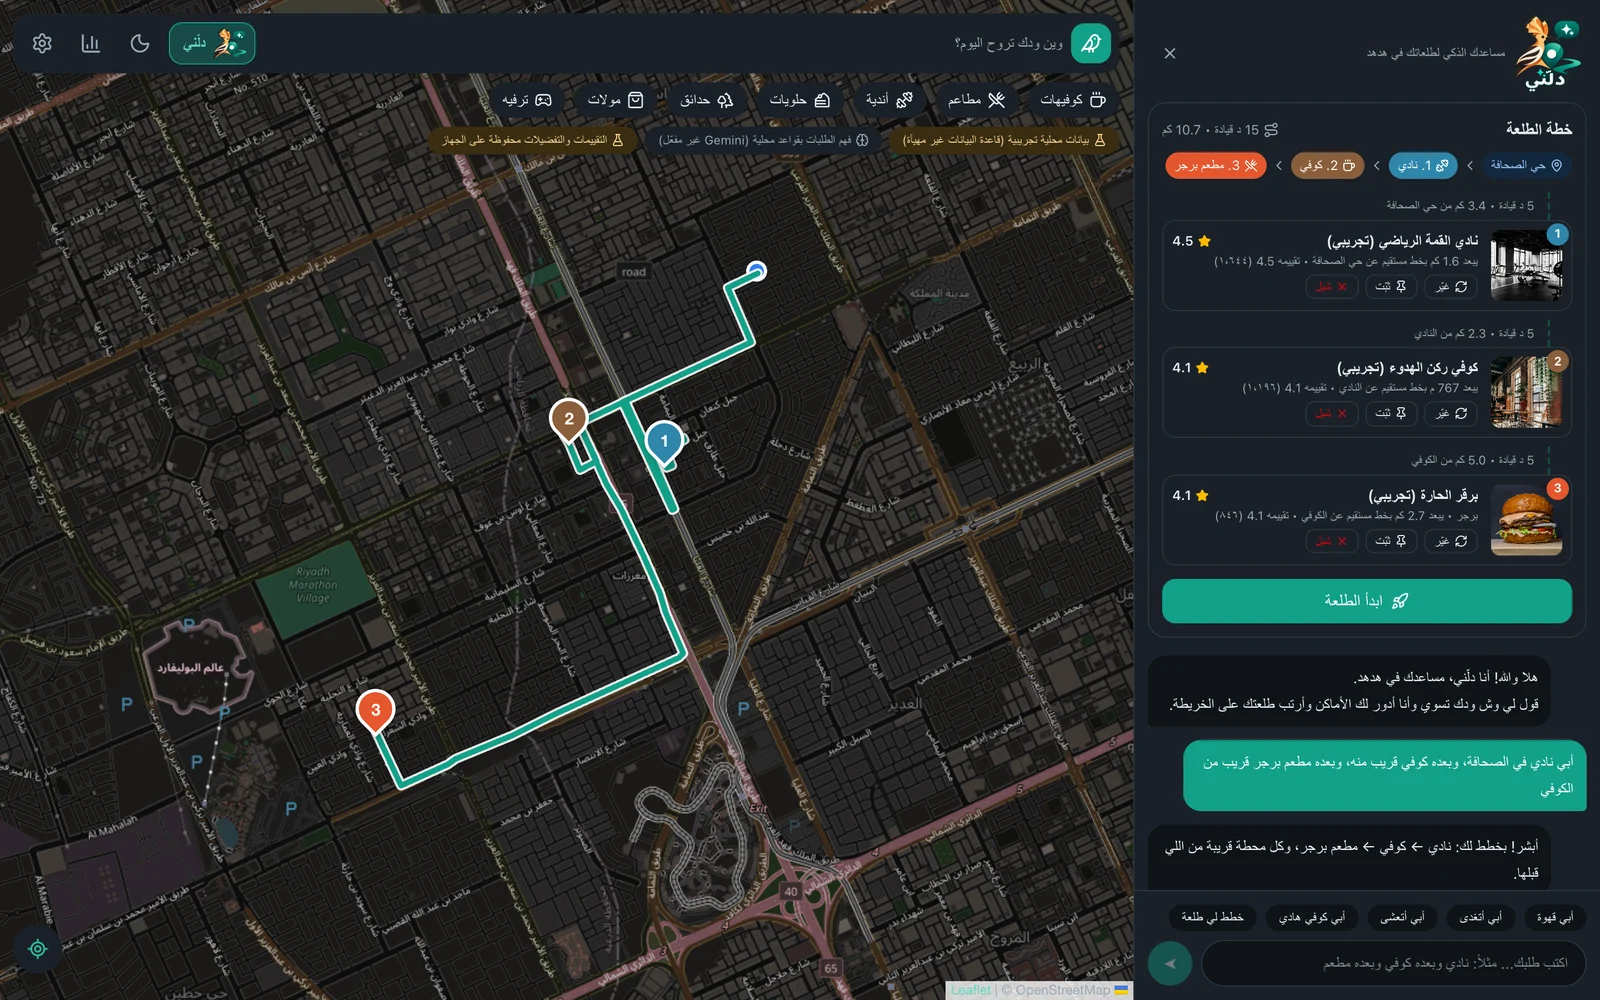
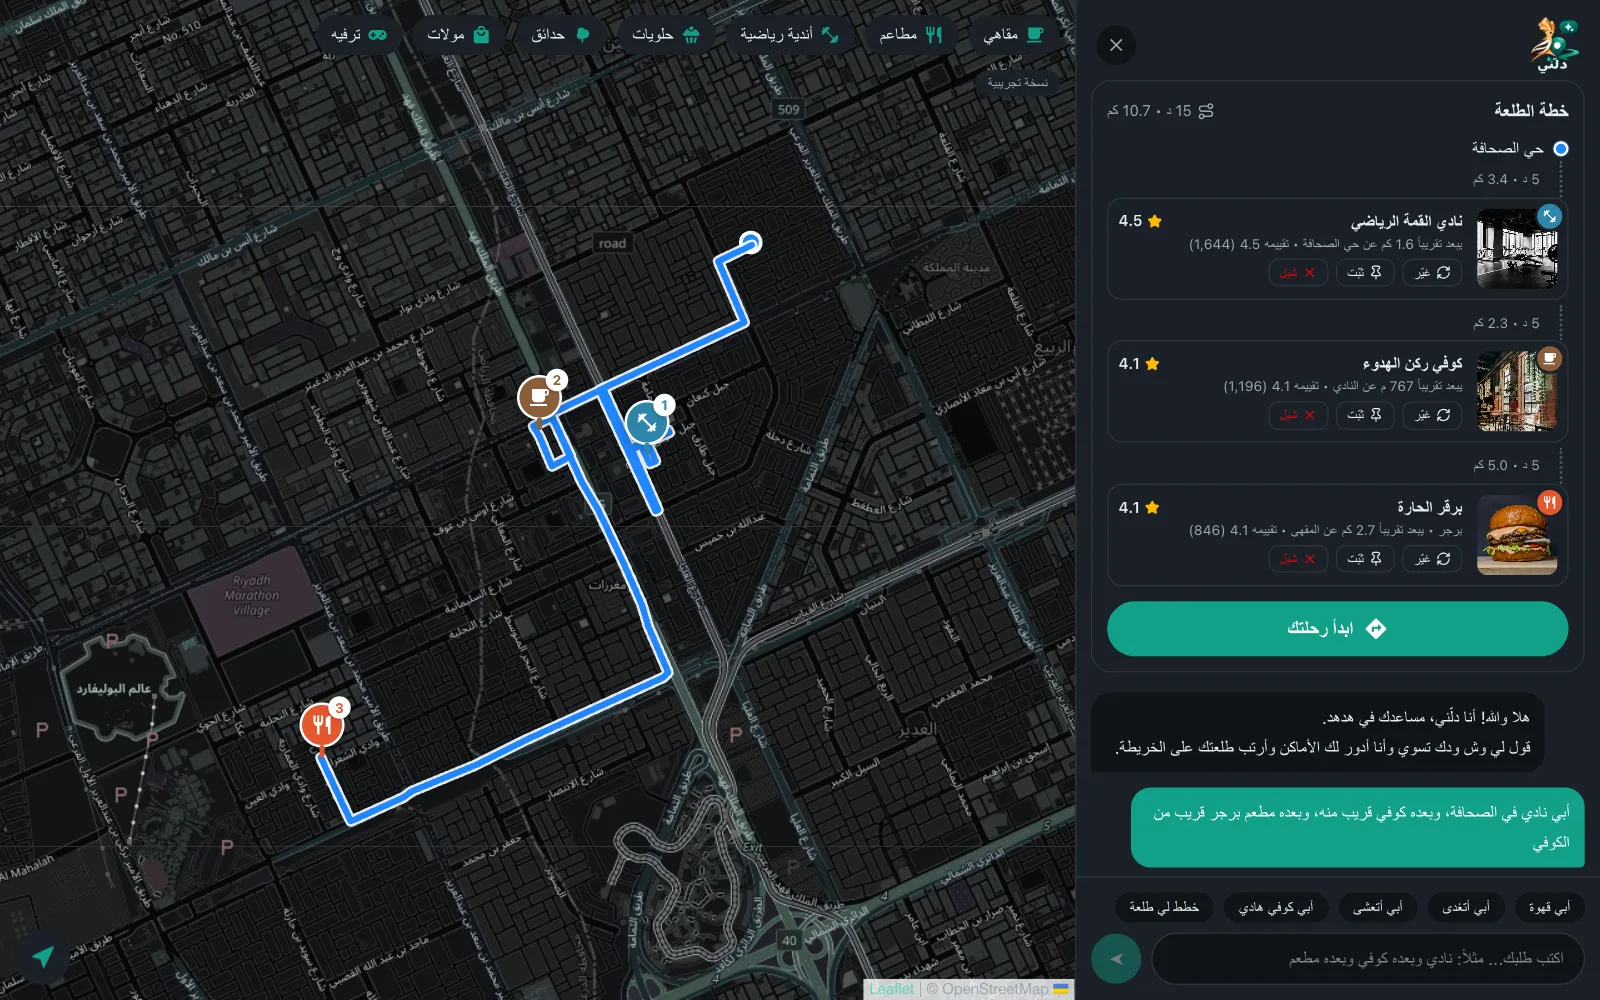
Refresh README screenshots and wording for the Hudhud-style UI

diff --git a/README.md b/README.md
@@ -49,7 +49,7 @@ This repository contains the working prototype built for the *AI Feature Innovat
   <img src="docs/screenshots/plan-light.webp" alt="A three-stop outing plan (gym, café, burger restaurant) drawn as a road route on the map, with the plan cards in the assistant panel">
 </picture>
 
-The [live demo](https://hudhud-dallni.vercel.app) runs without any API keys: it uses the offline demo dataset and the rule-based dialect parser, and it labels both in the interface.
+The [live demo](https://hudhud-dallni.vercel.app) runs without any API keys: it uses the offline demo dataset and the rule-based dialect parser, and says so under Settings (الإعدادات).
 
 > [!NOTE]
 > Dallni is an independent student concept. It is **not** affiliated with, endorsed by, or connected to Hudhud. All place data in the demo database is synthetic.
@@ -61,7 +61,7 @@ The [live demo](https://hudhud-dallni.vercel.app) runs without any API keys: it 
 | **Saudi-dialect understanding** | Turns requests like "a quiet café to study in Al Malqa" into structured filters (category, type, district, ranking priority). It asks one clarifying question only when a request is genuinely ambiguous. |
 | **Multi-stop planning** | Plans up to six stops in the user's own order. Each stop is searched around the stop before it, so the outing stays compact. |
 | **Conversational editing** | Understands edits such as "change the café", "a closer café", "make the restaurant Italian", "lock the gym", "add dessert after the gym", and "remove the restaurant", and rebuilds only what changed. |
-| **Explainable picks** | Every stop shows its rating, its straight-line distance from the previous stop, and why it was chosen. Alternatives appear as secondary pins on the map. |
+| **Explainable picks** | Every stop shows its rating, its approximate distance from the previous stop, and why it was chosen. Alternatives appear as secondary pins on the map. |
 | **In-app trip** | Starts from the user's GPS position or a point they choose, follows a road route, shows basic Arabic turn guidance, and moves through the stops in order. |
 | **Consent-based reviews** | After a visit, the user rates it. Gemini drafts a short review from the user's own words, and it is published only after the user explicitly agrees. |
 | **Personalization with consent** | With a separate opt-in, Dallni remembers stated tastes (preferred cuisines, café types, districts, budget, things to avoid). Users can view or erase them from the settings sheet. |
@@ -89,7 +89,7 @@ flowchart LR
 1. **Understand.** Gemini extracts a structured intent: the ordered steps, each step's category and subcategory, the district, the ranking priority, and any edit command. The server checks the response against the app's categories, subcategories, tags, and districts and drops anything invented. If Gemini is not configured, hits its quota, or returns something unusable, a rule-based Saudi-dialect parser answers instead.
 2. **Retrieve.** Each step becomes an exact database query on category, optional subcategory, and optional district.
 3. **Rank.** The planner scores candidates by proximity to the previous stop, rating, popularity, requested tags, and consented preferences. It prefers short hops (within 3, 6, then 12 km) when the data allows.
-4. **Route.** The ordered stops are routed by road through Google Routes when a key is set, otherwise through OSRM on OpenStreetMap data. If routing fails, the map draws straight lines and says clearly that they are not driving distances.
+4. **Route.** The ordered stops are routed by road through Google Routes when a key is set, otherwise through OSRM on OpenStreetMap data. If routing fails, the map draws straight lines, says that road routing failed, and marks distances as approximate.
 5. **Learn, with consent.** Visit feedback and stated preferences are saved only after explicit opt-in, and only for that user.
 
 ### Graceful degradation
@@ -242,7 +242,7 @@ docs/screenshots/               README images
 - **Anonymous by default.** Each browser gets an anonymous Supabase session. No names, emails, or phone numbers are collected.
 - **Consent first.** Reviews are published only after an explicit yes. Preferences are saved only with a separate opt-in and can be erased at any time.
 - **Aggregates only.** The assistant-feedback dashboard reads counts from a database function and never reads individual responses.
-- **Honest data.** Synthetic places and illustrative photos are labelled as such. Distances are labelled as straight-line where that is what they are, and travel times appear only when a routing service returns them.
+- **Honest data.** Synthetic places and illustrative photos are labelled as such. Straight-line distances are marked as approximate (تقريباً), and travel times appear only when a routing service returns them.
 - **Server-side secrets.** Gemini and Google server keys never reach the browser. Place photos are proxied.
 
 ## Supported place types
